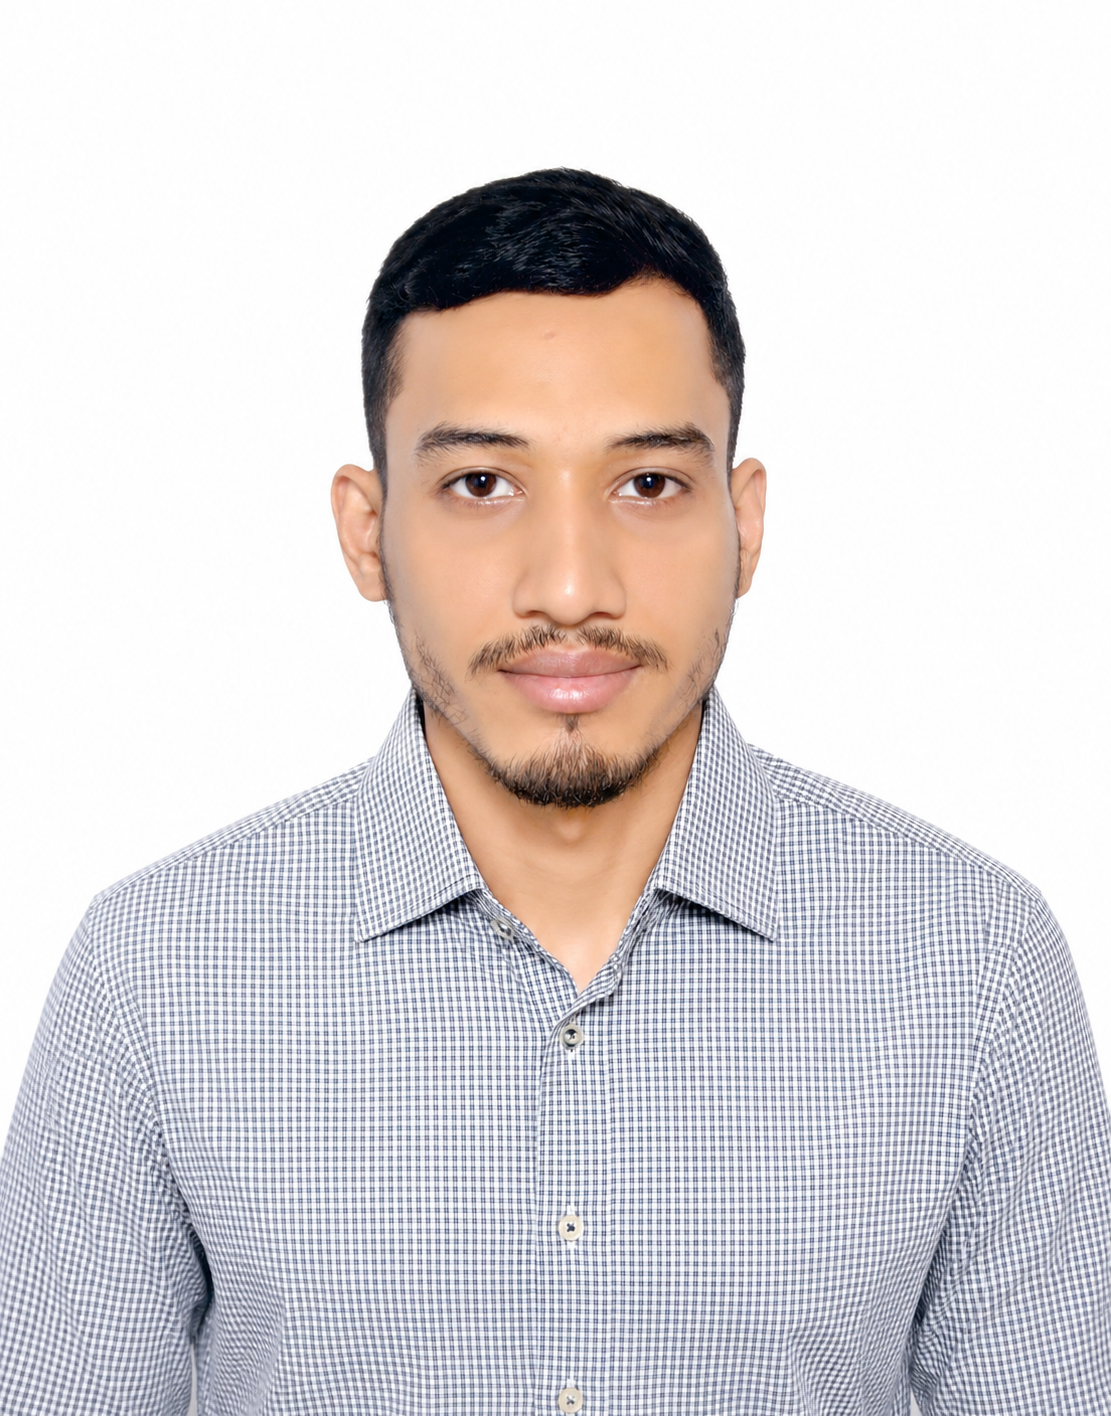
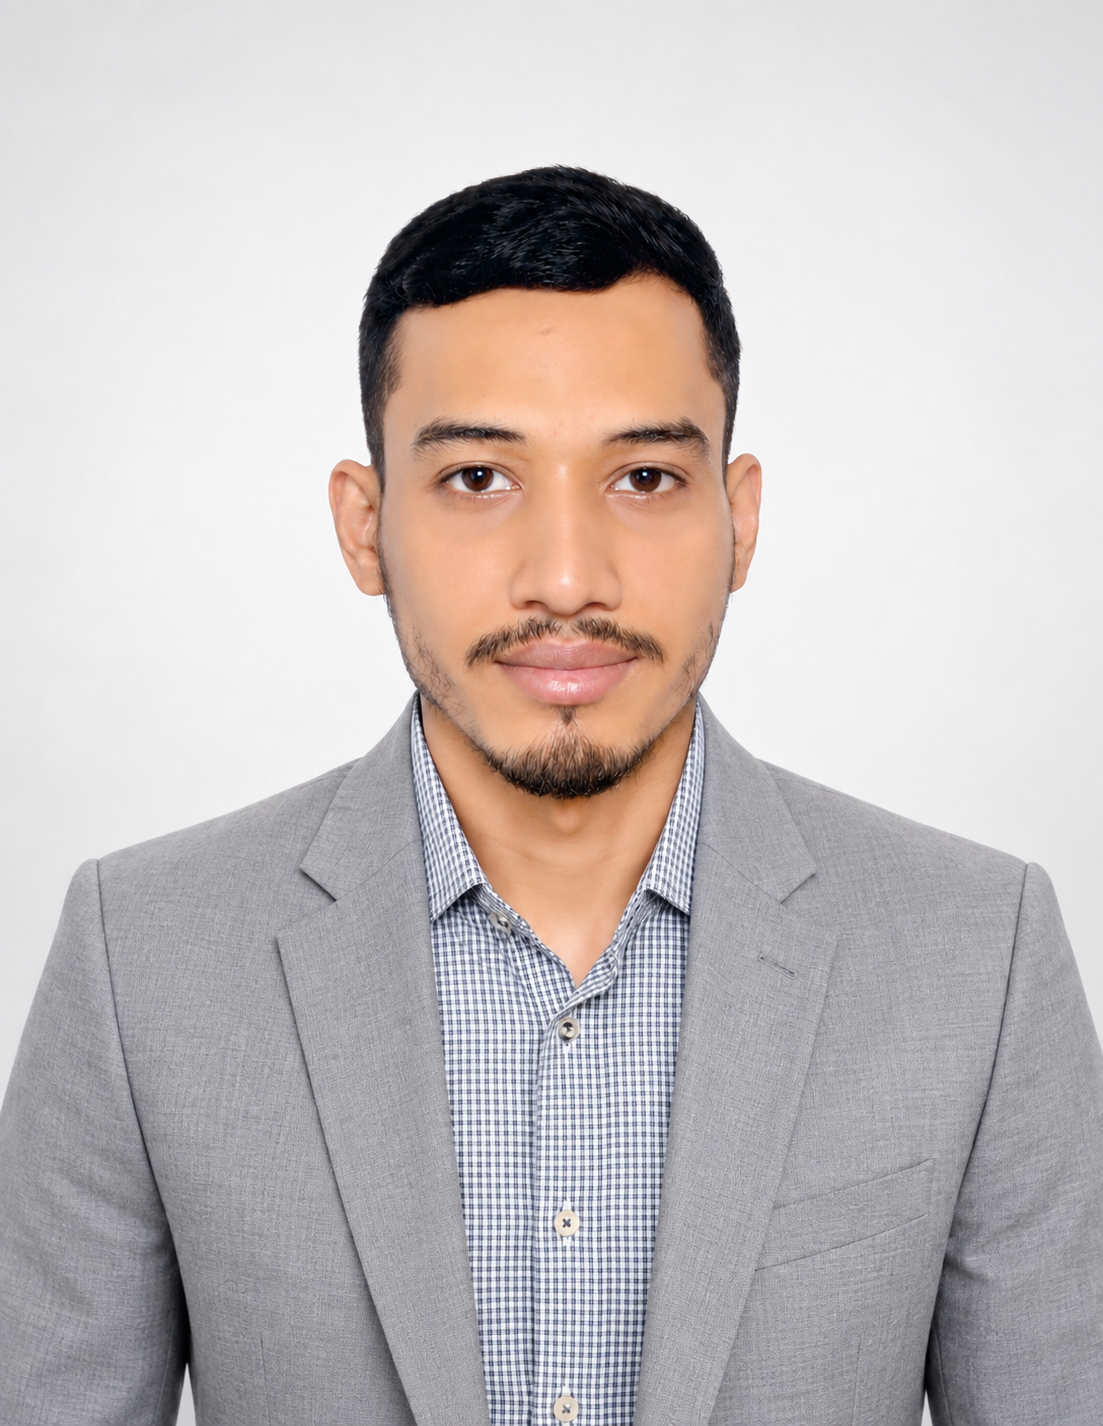
Convert SolutionsSection cards to infinite smooth right-to-left marquee animation

diff --git a/components/bayshore-solutions/SolutionsSection.tsx b/components/bayshore-solutions/SolutionsSection.tsx
@@ -374,82 +374,117 @@ export const SolutionsSection: React.FC<SolutionsSectionProps> = ({
           </div>
         </motion.div>
 
-        {/* 6 or 18 Solution Cards Responsive Grid (2 columns on mobile, 6 columns on lg screens) */}
-        <div className="grid grid-cols-2 sm:grid-cols-2 md:grid-cols-3 lg:grid-cols-6 gap-3 sm:gap-5 xl:gap-6 mb-12 sm:mb-16">
-          {displaySolutions.map((card, idx) => (
-            <motion.div
-              key={card.id}
-              initial={{ opacity: 0, y: 45, scale: 0.92, rotateX: 8 }}
-              whileInView={{ opacity: 1, y: 0, scale: 1, rotateX: 0 }}
-              viewport={{ once: true, margin: "-40px" }}
-              transition={{ duration: 0.6, delay: idx * 0.08, type: "spring", stiffness: 90, damping: 14 }}
-              whileHover={{ y: -12, scale: 1.04 }}
-              className={`rounded-2xl sm:rounded-[28px] p-4 sm:p-7 flex flex-col justify-between h-full transition-all duration-300 group shadow-sm hover:shadow-2xl cursor-pointer ${
-                theme === "dark"
-                  ? "bg-[#0B1A2D] border border-slate-800/90 hover:border-[#FF5500]/80 shadow-lg shadow-black/30 !text-white"
-                  : "bg-[#F3F6FA] border border-slate-200/60 hover:border-[#FE6F1F]/80 shadow-sm hover:shadow-xl !text-[#0C1827]"
-              }`}
-            >
-              <div>
-                {/* Icon Container with hover pulse */}
-                <div
-                  className={`w-14 h-14 sm:w-16 sm:h-16 rounded-full flex items-center justify-center mb-6 shadow-sm transition-all duration-300 group-hover:scale-115 group-hover:rotate-3 ${
-                    theme === "dark"
-                      ? "bg-slate-800 border border-slate-700 !text-white group-hover:bg-[#FF5500]"
-                      : "bg-white border border-slate-100 !text-[#0C1827] group-hover:bg-[#07192C] group-hover:!text-white"
-                  }`}
-                >
-                  {card.icon}
-                </div>
+      {/* Infinite Marquee CSS Animation */}
+      <style jsx global>{`
+        @keyframes solutionsMarquee {
+          0% {
+            transform: translateX(0%);
+          }
+          100% {
+            transform: translateX(-50%);
+          }
+        }
+        .solutions-marquee-track {
+          display: flex;
+          width: max-content;
+          animation: solutionsMarquee 38s linear infinite;
+        }
+        .solutions-marquee-track:hover {
+          animation-play-state: paused;
+        }
+      `}</style>
 
-                {/* Card Title */}
-                <h3
-                  className={`text-2xl sm:text-3xl font-extrabold tracking-tight mb-5 font-playfair ${
-                    theme === "dark" ? "!text-white" : "!text-[#0C1827]"
-                  }`}
-                >
-                  {card.title}
-                </h3>
+        {/* Infinite Marquee Solution Cards Slider (Slowly moves right to left, pauses on hover) */}
+        <div className="relative w-full overflow-hidden mb-12 sm:mb-16 py-4">
+          {/* Left & Right Subtle Fade Overlays */}
+          <div
+            className={`absolute left-0 top-0 bottom-0 w-10 sm:w-20 z-20 pointer-events-none transition-colors duration-300 ${
+              theme === "dark"
+                ? "bg-gradient-to-r from-[#07192C] to-transparent"
+                : "bg-gradient-to-r from-white to-transparent"
+            }`}
+          />
+          <div
+            className={`absolute right-0 top-0 bottom-0 w-10 sm:w-20 z-20 pointer-events-none transition-colors duration-300 ${
+              theme === "dark"
+                ? "bg-gradient-to-l from-[#07192C] to-transparent"
+                : "bg-gradient-to-l from-white to-transparent"
+            }`}
+          />
 
-                {/* Features Bullet List */}
-                <ul className="flex flex-col gap-2.5 mb-8 font-instrument">
-                  {card.features.map((feature, featureIdx) => (
-                    <li
-                      key={featureIdx}
-                      className={`text-lg sm:text-xl leading-snug flex items-start gap-2.5 ${
-                        theme === "dark" ? "!text-slate-200" : "!text-[#556070]"
-                      }`}
-                    >
-                      <span
-                        className={`font-extrabold text-base select-none ${
-                          theme === "dark" ? "!text-[#FF5500]" : "!text-[#FE6F1F]"
-                        }`}
-                      >
-                        •
-                      </span>
-                      <span>{feature}</span>
-                    </li>
-                  ))}
-                </ul>
-              </div>
-
-              {/* Card Action CTA Button */}
-              <motion.button
-                whileHover={{ scale: 1.03 }}
-                whileTap={{ scale: 0.97 }}
-                type="button"
-                onClick={() => onFindTalentClick && onFindTalentClick(card.id)}
-                className={`w-full py-3.5 px-4 rounded-full font-bold text-sm sm:text-base transition-all duration-300 flex items-center justify-center gap-2 shadow-sm hover:shadow-md font-instrument ${
+          <div className="solutions-marquee-track flex items-stretch gap-4 sm:gap-6">
+            {[...displaySolutions, ...displaySolutions].map((card, idx) => (
+              <motion.div
+                key={`${card.id}-${idx}`}
+                whileHover={{ y: -8, scale: 1.03 }}
+                transition={{ duration: 0.3 }}
+                className={`w-[245px] xs:w-[265px] sm:w-[295px] shrink-0 rounded-2xl sm:rounded-[28px] p-5 sm:p-7 flex flex-col justify-between transition-all duration-300 group shadow-sm hover:shadow-2xl cursor-pointer ${
                   theme === "dark"
-                    ? "bg-[#FF5500] text-white hover:bg-[#e04a00]"
-                    : "bg-[#07192C] text-white hover:bg-[#000e1e]"
+                    ? "bg-[#0B1A2D] border border-slate-800/90 hover:border-[#FF5500]/80 shadow-lg shadow-black/30 !text-white"
+                    : "bg-[#F3F6FA] border border-slate-200/60 hover:border-[#FE6F1F]/80 shadow-sm hover:shadow-xl !text-[#0C1827]"
                 }`}
               >
-                <span>Hire Now</span>
-                <FiArrowRight size={16} className="transition-transform duration-300 group-hover:translate-x-1" />
-              </motion.button>
-            </motion.div>
-          ))}
+                <div>
+                  {/* Icon Container with hover pulse */}
+                  <div
+                    className={`w-14 h-14 sm:w-16 sm:h-16 rounded-full flex items-center justify-center mb-5 sm:mb-6 shadow-sm transition-all duration-300 group-hover:scale-115 group-hover:rotate-3 ${
+                      theme === "dark"
+                        ? "bg-slate-800 border border-slate-700 !text-white group-hover:bg-[#FF5500]"
+                        : "bg-white border border-slate-100 !text-[#0C1827] group-hover:bg-[#07192C] group-hover:!text-white"
+                    }`}
+                  >
+                    {card.icon}
+                  </div>
+
+                  {/* Card Title */}
+                  <h3
+                    className={`text-xl sm:text-2xl font-extrabold tracking-tight mb-4 sm:mb-5 font-playfair ${
+                      theme === "dark" ? "!text-white" : "!text-[#0C1827]"
+                    }`}
+                  >
+                    {card.title}
+                  </h3>
+
+                  {/* Features Bullet List */}
+                  <ul className="flex flex-col gap-2.5 mb-6 sm:mb-8 font-instrument">
+                    {card.features.map((feature, featureIdx) => (
+                      <li
+                        key={featureIdx}
+                        className={`text-sm sm:text-base leading-snug flex items-start gap-2 ${
+                          theme === "dark" ? "!text-slate-200" : "!text-[#556070]"
+                        }`}
+                      >
+                        <span
+                          className={`font-extrabold text-xs sm:text-sm select-none mt-0.5 ${
+                            theme === "dark" ? "!text-[#FF5500]" : "!text-[#FE6F1F]"
+                          }`}
+                        >
+                          •
+                        </span>
+                        <span>{feature}</span>
+                      </li>
+                    ))}
+                  </ul>
+                </div>
+
+                {/* Card Action CTA Button */}
+                <motion.button
+                  whileHover={{ scale: 1.03 }}
+                  whileTap={{ scale: 0.97 }}
+                  type="button"
+                  onClick={() => onFindTalentClick && onFindTalentClick(card.id)}
+                  className={`w-full py-3 sm:py-3.5 px-4 rounded-full font-bold text-xs sm:text-base transition-all duration-300 flex items-center justify-center gap-2 shadow-sm hover:shadow-md font-instrument ${
+                    theme === "dark"
+                      ? "bg-[#FF5500] text-white hover:bg-[#e04a00]"
+                      : "bg-[#07192C] text-white hover:bg-[#000e1e]"
+                  }`}
+                >
+                  <span>Hire Now</span>
+                  <FiArrowRight size={16} className="transition-transform duration-300 group-hover:translate-x-1" />
+                </motion.button>
+              </motion.div>
+            ))}
+          </div>
         </div>
 
         {/* Bottom "View All Solutions" Button (Shown only when not showAll) */}

diff --git a/components/bayshore-solutions/HeroSection.tsx b/components/bayshore-solutions/HeroSection.tsx
@@ -362,9 +362,9 @@ export const HeroSection: React.FC<HeroSectionProps> = ({
                       : "bg-[#F3F5F8] !text-[#0C1827] group-hover:bg-[#07192C] group-hover:!text-white border border-slate-200/50"
                   }`}
                 >
-                  <FiUser className="text-[26px] sm:text-[34px] transition-transform duration-300 group-hover:scale-125" />
+                  <FiUser className="text-[26px] sm:text-[34px] transition-transform duration-300 p-3 group-hover:scale-125" />
                 </motion.div>
-                <span className={`text-xl sm:text-2xl  leading-tight font-instrument ${
+                <span className={`text-xl sm:text-2xl  leading-tight font-instrument  ${
                   theme === "dark" ? "!text-white" : "!text-[#0C1827]"
                 }`}>
                   Skilled &<br />
@@ -390,7 +390,7 @@ export const HeroSection: React.FC<HeroSectionProps> = ({
                       : "bg-[#F3F5F8] !text-[#0C1827] group-hover:bg-[#07192C] group-hover:!text-white border border-slate-200/50"
                   }`}
                 >
-                  <FiTrendingUp className="text-[26px] sm:text-[34px] transition-transform duration-300 group-hover:scale-125" />
+                  <FiTrendingUp className="text-[26px] sm:text-[34px] transition-transform duration-300 group-hover:scale-125  p-3 " />
                 </motion.div>
                 <span className={`text-xl sm:text-2xl  leading-tight font-instrument ${
                   theme === "dark" ? "!text-white" : "!text-[#0C1827]"
@@ -418,7 +418,7 @@ export const HeroSection: React.FC<HeroSectionProps> = ({
                       : "bg-[#F3F5F8] !text-[#0C1827] group-hover:bg-[#07192C] group-hover:!text-white border border-slate-200/50"
                   }`}
                 >
-                  <FiShield className="text-[26px] sm:text-[34px] transition-transform duration-300 group-hover:scale-125" />
+                  <FiShield className="text-[26px] sm:text-[34px] transition-transform duration-300 group-hover:scale-125  p-3 " />
                 </motion.div>
                 <span className={`text-xl sm:text-2xl  leading-tight font-instrument ${
                   theme === "dark" ? "!text-white" : "!text-[#0C1827]"

diff --git a/components/bayshore-solutions/TalentShowcaseSection.tsx b/components/bayshore-solutions/TalentShowcaseSection.tsx
@@ -48,7 +48,7 @@ export const DEFAULT_TALENTS: TalentProfile[] = [
     categoryIcon: <FiCode className="text-base" />,
     experience: "5+ Years",
     hoursType: "US Hours",
-    imagePath: "/assets/bayshore-solutions/home/Abrar.jpg",
+    imagePath: "/assets/bayshore-solutions/home/Abrar.png",
   },
   {
     id: "t2",
@@ -59,7 +59,7 @@ export const DEFAULT_TALENTS: TalentProfile[] = [
     categoryIcon: <FiCode className="text-base" />,
     experience: "4+ Years",
     hoursType: "US Hours",
-    imagePath: "/assets/bayshore-solutions/home/arfin.jpg",
+    imagePath: "/assets/bayshore-solutions/home/arfin.png",
   },
   {
     id: "t3",
@@ -81,7 +81,7 @@ export const DEFAULT_TALENTS: TalentProfile[] = [
     categoryIcon: <FiShield className="text-base" />,
     experience: "6+ Years",
     hoursType: "US Hours",
-    imagePath: "/assets/bayshore-solutions/home/Hossain.jpg",
+    imagePath: "/assets/bayshore-solutions/home/Hossain.png",
   },
   {
     id: "t5",
@@ -92,7 +92,7 @@ export const DEFAULT_TALENTS: TalentProfile[] = [
     categoryIcon: <FiBarChart2 className="text-base" />,
     experience: "5+ Years",
     hoursType: "US Hours",
-    imagePath: "/assets/bayshore-solutions/home/minhazur.jpg",
+    imagePath: "/assets/bayshore-solutions/home/minhazur.png",
   },
   {
     id: "t6",

diff --git a/components/bayshore-solutions/Navbar.tsx b/components/bayshore-solutions/Navbar.tsx
@@ -157,7 +157,7 @@ export const Navbar: React.FC<NavbarProps> = ({
             {/* CTA Button matching screenshots */}
             <motion.div whileHover={{ scale: 1.02 }} whileTap={{ scale: 0.98 }}>
               <Link
-                href="/bayshore-solutions/get-started"
+                href=""
                 className={`text-link group px-6 py-2.5 lg:px-7 lg:py-3 rounded-full font-bold transition-all duration-300 flex items-center gap-2 shadow-md hover:shadow-lg ${
                   theme === "dark"
                     ? "bg-[#FF5500] !text-white hover:bg-[#e04a00] focus:ring-2 focus:ring-[#FF5500]/50"
